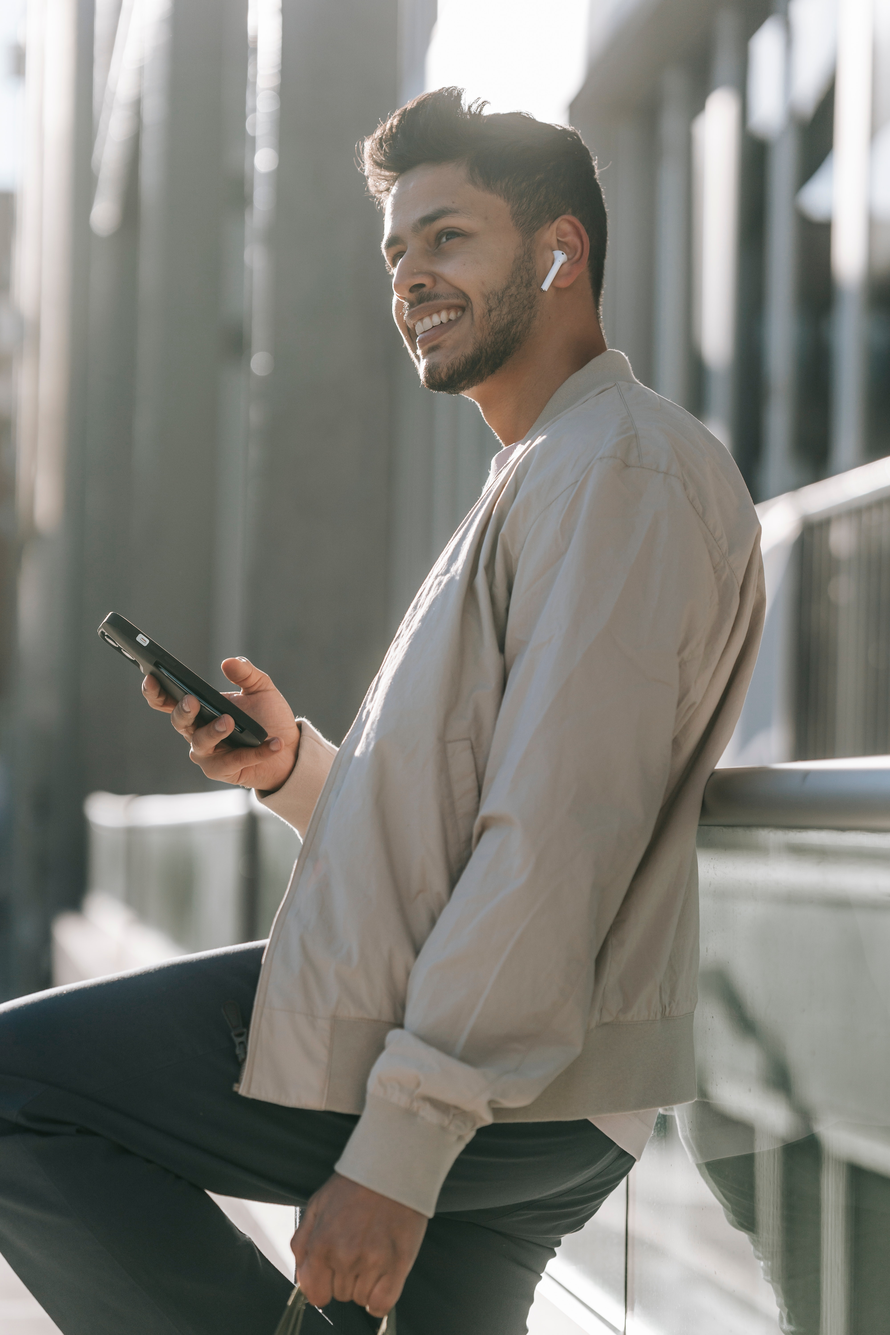
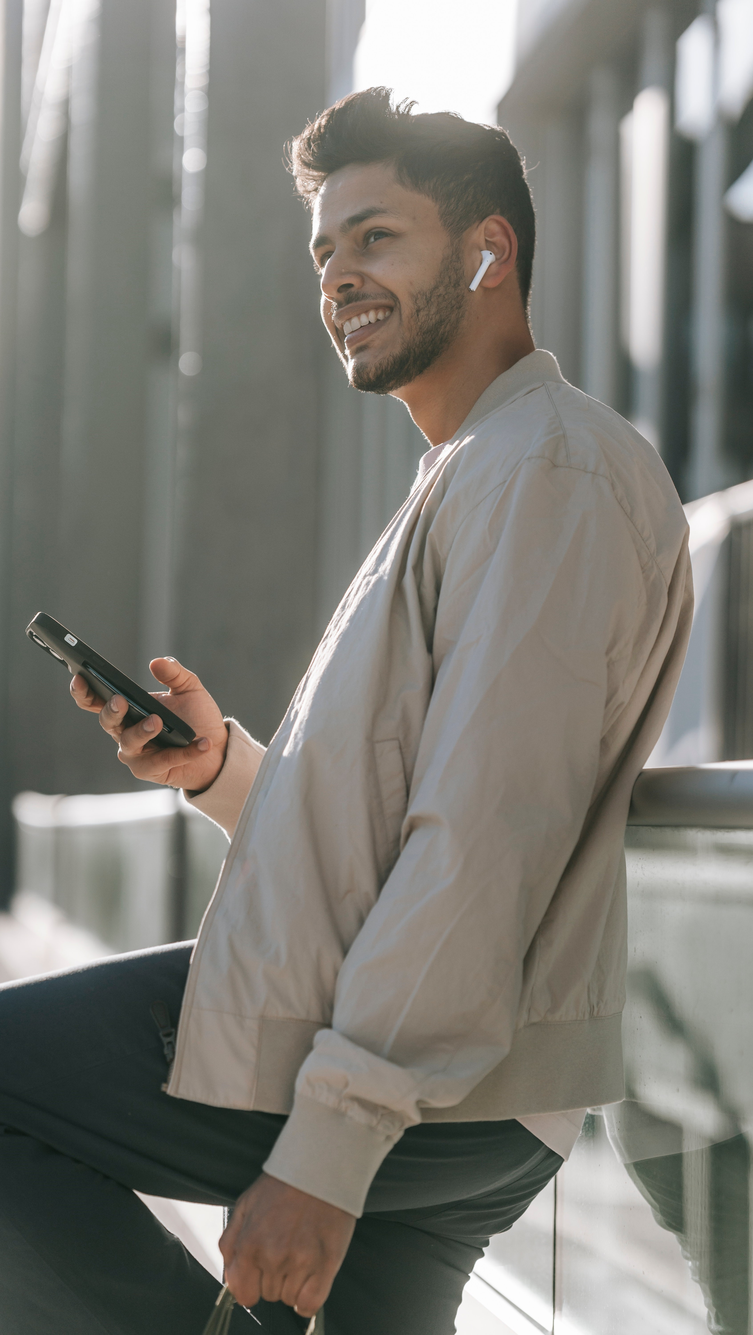
Reajuste em capa-celular.jpg
Redimensionamento em capa-celular.jpg e reposicionamento da imagem em estilo-principal.css

diff --git a/docs/styles/estilo-principal.css b/docs/styles/estilo-principal.css
@@ -95,7 +95,7 @@ header > p {
 
 /* Área com imagens de fundo */
 .imagem-fundo {
-  background-position: center center;
+  background-position: center top;
   background-repeat: no-repeat;
   background-size: cover;
   background-attachment: cover;
